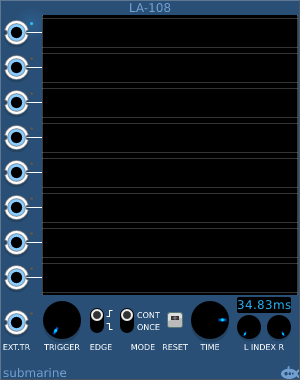
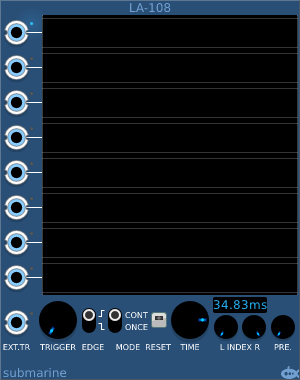
Add FF and PG modules to manual, update LA manual page

Changed region(s): [[0.12, 0.7816, 0.99, 0.9263], [0.15, 0.7816, 0.18, 0.8105]]

diff --git a/manual/FF.md b/manual/FF.md
@@ -1,0 +1,19 @@
+# Flip-Flops
+### [Part of the Digital Suite](DS.md)
+#### FF-110 10-Stage Flip-Flop Cascade
+#### FF-120 20-Stage Flip-Flop Cascade
+#### FF-212 12 Edge Triggered Flip-Flops
+
+![View of the Flip-Flop modules](FF.png "Flip-Flop Range")
+
+## Basic Operation
+
+A Flip-Flop or Toggle Latch changes its state from 0 to 1 or back again every time that it is triggered. It is designed to take digital signals, but it will happily accept analog sygnalse. The Flip-Flop devices are triggered by a rising edge on the input signal and the output changes to a high level signal if it was previously low, or to a low level signal if it was previously high.
+
+## Cascades
+
+The FF-110 and FF-120 Flip-Flop cascade devices contain a chain of linked Flip-Flops. The first in the chain is triggered by the rising edge of the input signal, but each subsequent device in the chain is triggered by the falling edge of the previous device. The result is that each output alternates between high and low signals at half the rate of the previous device; effectively forming a binary counter.
+
+## Normalling
+
+The FF-212 module contains 12 independant Flip-Flops each triggered on the rising edge. However, if nothing is connected to the input, the device is normally connected through an inverter to the output of the previous device. The module can be used as independant Flip-Flops, or as one or more multi-stage cascades.

diff --git a/manual/PG.md b/manual/PG.md
@@ -1,0 +1,20 @@
+# Pulse Generators
+### [Part of the Digital Suite](DS.md)
+#### PG-112 Pulse Generators
+
+
+![View of the Pulse Generators](PG.png "Pulse Generators")
+
+## Basic Operation
+
+The PG-112 provides 12 Pulse Generators. It is designed to take digital signals, but it will happily accept analog signals. Each pulse generator triggers on the rising edge of the input signal, and generates a positive pulse on the output which fall back after a defined length of time. A control knob allows you to control the length of the pulse. The default length is 10ms, but it can be adjusted from 10&#x3bc;s to 100s.
+
+## Signal Range
+
+The voltage range of the digital gates can be configured from the context menu. The device will output at the full range of the configured settings. The inputs will measure a logical high signal anywhere above the midpoint of the configured range.
+
+## Normalling
+
+Any output not connected will be normalled into a third input on the gate below. In this way multi-input gates can be created up to a maximum of 12 inputs. 
+
+An input not connected will be ignored.

diff --git a/manual/LA.md b/manual/LA.md
@@ -36,3 +36,6 @@ You can use an index to help you compare the edges of signals from different tra
 
 Alternatively using both indices and the time span display will allow you to measure the length of a pulse or event in a trace,  Or by setting the indices to a known time span, you can adjust other devices in your rack until a signal is of the desired duration.
 
+## Pre-trigger Buffer
+
+The PRE. knob controls the display of the content of the pre-trigger buffer. This 32-sample buffer is constantly filled by the scope and is available to display the up to 32 samples prior to the trigger point. By adjusting the PRE. knob you can adjust how much of this buffer is displayed. The trigger point is indicated by a vertical red line on the display.

diff --git a/manual/DS.md b/manual/DS.md
@@ -1,9 +1,13 @@
 # Digital Suite
 #### [AG-106 AND Gates](AG)
+#### [FF-110 Flip-Flops](FF)
+#### [FF-120 Flip-Flops](FF)
+#### [FF-212 Flip-Flops](FF)
 #### [LA-108 8-Channel Logic Analyser](LA)
 #### [LD-106 Line Drivers](LD)
 #### [NG-112 NOT Gates](NG)
 #### [OG-106 OR Gates](OG)
+#### [PG-112 Pulse Generators](PG)
 #### [XG-106 XOR Gates](XG)
 
 ![View of the DS Suite Menu](DS.png "DS Modules")

diff --git a/manual/index.md b/manual/index.md
@@ -7,6 +7,9 @@ Blanking plates
 # [DS](DS.md)
 Digital Suite
 
+# [FF](FF.md)
+Flip-Flops
+
 # [LA](LA.md)
 8-Channel Logic Analyser
 
@@ -18,6 +21,9 @@ Logical NOT gates
 
 # [OG](OG.md)
 Logical OR gates
+
+# [PG](PG.md)
+Pulse Generators
 
 # [XF](XF.md)
 A range of mono and stereo equal power cross-faders with linear and logarithmic gain profiles and an autoselector
